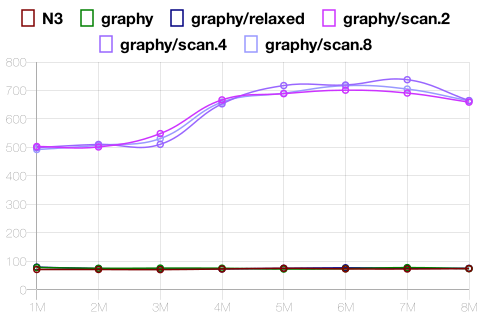
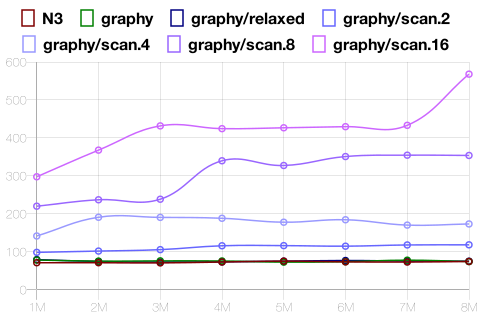
docs(perf): fix scan count charts

diff --git a/perf/README.md b/perf/README.md
@@ -8,7 +8,7 @@ The Y-axis for 'Velocity' charts denotes the number of Quads per millisecond (Qu
 There are multiple modes for `graphy`:
   - the default mode with validation enabled for reading
   - ['relaxed' mode](https://graphy.link/content.textual#config_read-no-input), which skips validation for faster read speeds
-  - ['scan' mode](https://graphy.link/content.textual#verb_scan), which uses multiple threads (2, 4, or 8 in these trials) to read the input stream
+  - ['scan' mode](https://graphy.link/content.textual#verb_scan), which uses multiple threads (2, 4, 8 or 16 in these trials) to read the input stream
 
 All Turtle input files are using prefixed names for identifiers when possible.
 
